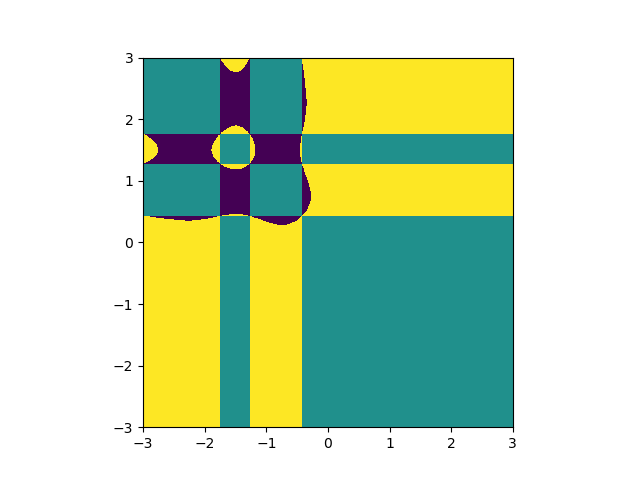
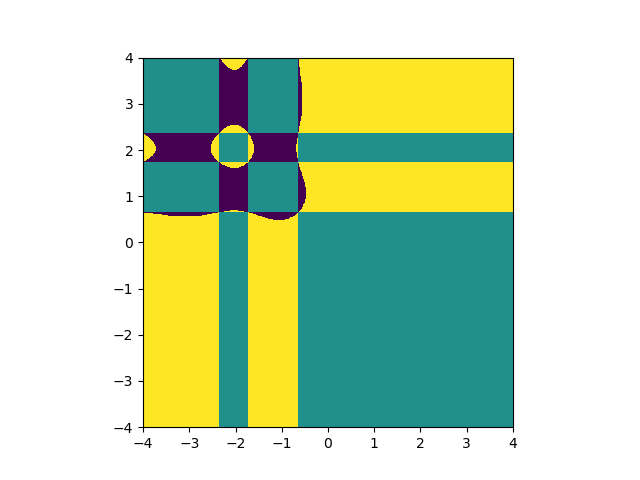
rect

diff --git a/additional task.py b/additional task.py
@@ -27,7 +27,7 @@ def hermite(n, x):
 
 # подсчёт функции
 def integral_function(x, sigma, u, n_herm):
-    exp_f = 1 #cmath.exp(- x ** 2 / sigma ** 2)
+    exp_f = cmath.exp(- x ** 2 / sigma ** 2)
     exp_K = cmath.exp(- 1j * 2 * np.pi * x * u)
     #n_hermite = hermite(n_herm, x)
     return exp_f * exp_K * rect(x, T)
@@ -39,7 +39,7 @@ def numerical_method(a, b, n, sigma, n_herm, u, v, m):
     result_function = 0
     h_x = (b - a) / n
     h_e = (v - u) / m
-    for j in range(m):
+    for j in range(m + 1):
         u_l = u + j * h_e
         for k in range(n):
             x_k = a + k * h_x
@@ -59,7 +59,7 @@ def result(a, b, u, v, n, m, sigma, n_herm_x, n_herm_y):
         result_conversion.append([])
         for j in range(size):
             result_conversion[i].append(x_part[i] * y_part[j])
-    chart(result_conversion, a, b, size)
+    chart(result_conversion, u, v, size)
     return result_conversion
 
 
@@ -87,17 +87,17 @@ def phase(conversion_points, size):
 # построение графика
 def chart(conversion_points, a, b, size):
 
-    x = np.linspace(float(a), float(b), 100)
-    y = np.linspace(float(a), float(b), 100)
+    x = np.linspace(float(a), float(b), 1000)
+    y = np.linspace(float(a), float(b), 1000)
     amplitude_conv = amplitude(conversion_points, size)
     fig, ax = plt.subplots()
-    ax.imshow(amplitude_conv, extent=(a,b,a,b))
+    ax.imshow(amplitude_conv, extent=(a, b, a, b))
 
     plt.savefig("амплитуда.png")
     plt.show()
     phase_con = phase(conversion_points, size)
     fig, ax = plt.subplots()
-    ax.imshow(phase_con, extent=(a,b,a,b))
+    ax.imshow(phase_con, extent=(a, b, a, b))
 
     plt.savefig("фаза.png")
     plt.show()
@@ -110,4 +110,3 @@ if __name__ == '__main__':
     n_herm_x, n_herm_y = 2, 3
     u, v = -4, 4
     res = result(a, b, u, v, n, m, sigma, n_herm_x, n_herm_y)
-    print(res)
